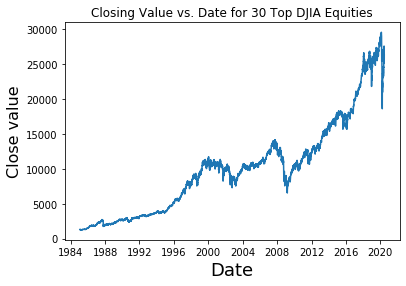
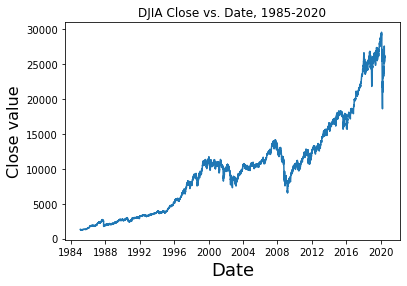
Reconfigure code, begin setup for target values as sequences

diff --git a/RNN.py b/RNN.py
@@ -4,28 +4,29 @@ import pandas as pd
 import matplotlib.pyplot as plt
 import matplotlib.dates as mdates
 from tensorflow.keras.models import Sequential
-from tensorflow.keras.layers import Embedding, LSTM, Dense, Dropout
-from time import strptime
+from tensorflow.keras.layers import LSTM, Dense, Dropout
 from math import ceil
 from tensorflow.keras.callbacks import EarlyStopping, ModelCheckpoint
 from sklearn.preprocessing import MinMaxScaler 
-from datetime import datetime 
 
-# TODO: Model is currently overfitting. 
+# =============================================================================
+# Dataset V1.0: Scalar Closing Values as Labels 
+# =============================================================================
 
 # Load data 
 file = r'DJIA_all_time' + '.csv'
 
 dirname = os.path.dirname(__file__)
 filename = os.path.join((dirname), 'data/' +file)
-df = pd.read_csv(filename)
+df = pd.read_csv(filename) # 2D (examples, 7 features)
 
-# Visualize the total dataset
-close_data = df['Close']
-dates = df['Date']
+#Extract close data and dates
+close_data = df['Close'] # 1D (examples, )
+dates = df['Date'] # 1D (examples, )
 adj_dates = mdates.datestr2num(dates)
-plt.plot_date(adj_dates, close_data, '-')
-    
+
+# Visualize whole dataset
+plt.plot_date(adj_dates, close_data, '-')    
 plt.title('DJIA Close vs. Date, 1985-2020')
 plt.xlabel('Date', fontsize = 18)
 plt.ylabel('Close value', fontsize = 16)
@@ -38,31 +39,57 @@ if close_data.isna().sum():
     
 # Define the training set
 percent_training: float = 0.80
-num_training_samples = ceil(percent_training*len(df)) # 7135
+num_training_samples = ceil(percent_training*len(df)) # int
 training_set = df.iloc[:num_training_samples, 5:6].values # (7135, 1)
 
 # Scale training data
 scaler = MinMaxScaler(feature_range = (0, 1))
-training_set_scaled = scaler.fit_transform(training_set) # (7135, 1)
+training_set_scaled = scaler.fit_transform(training_set) #2D (num_training_samples, 1)
 
 # Some parameters
 sequence_length: int = 90
 
-# Build x training set (contains example sequences of length sequence_length) 
+labels_are_sequences = False
+
+# =============================================================================
+# Dataset V1.0: Scalar Closing Values as Labels 
+# =============================================================================
+
+# Build 3D training set (examples, sequence_length, 1) 
 x_train = np.array([training_set_scaled[i - sequence_length:i, 0] for i in range(sequence_length, len(training_set_scaled))]) 
-x_train = np.reshape(x_train, (x_train.shape[0], x_train.shape[1], 1)) 
+x_train = np.reshape(x_train, (x_train.shape[0], x_train.shape[1], 1))
 
-# Build y training set (contains targets)
-y_train = np.array([training_set_scaled[i, 0] for i in range(sequence_length, len(training_set_scaled))])
-
-# Define test set 
-num_testing_samples: int = len(df) - x_train.shape[0] 
-testing_set = df.iloc[-num_testing_samples:, 5:6].values # 2D ndarray
-testing_set_scaled = scaler.fit_transform(testing_set) # 2D ndarray
+# Build test sets
+num_testing_samples: int = len(df) - x_train.shape[0] # Scalar 
+testing_set = df.iloc[-num_testing_samples:, 5:6].values # 2D (examples, 1)
+testing_set_scaled = scaler.fit_transform(testing_set) # 2D ndarray (examples, 1)
 
 x_test = np.array([testing_set_scaled[i - sequence_length:i, 0] for i in range(sequence_length, len(testing_set_scaled))])
-x_test = np.reshape(x_test, (x_test.shape[0], x_test.shape[1], 1)) # (7105, 30, 1)
-y_test = np.array([testing_set_scaled[i, 0] for i in range(sequence_length, len(testing_set_scaled))])
+x_test = np.reshape(x_test, (x_test.shape[0], x_test.shape[1], 1)) #3D (examples-sequence_length, sequence_length, 1)
+
+if not labels_are_sequences:
+    # Build 1D training labels (examples, )
+    y_train = np.array([training_set_scaled[i, 0] for i in range(sequence_length, len(training_set_scaled))])
+    y_test = np.array([testing_set_scaled[i, 0] for i in range(sequence_length, len(testing_set_scaled))]) # (examples-sequence_length, 1)
+    y_test = np.reshape(y_test, (y_test.shape[0])) #1D (examples, )
+
+# =============================================================================
+# Dataset V2.0: Vectors of Closing Values as Labels 
+# =============================================================================
+
+if labels_are_sequences:
+    y_train, y_test = [], []
+    
+    for i in range(sequence_length, len(training_set_scaled)):
+        y_train.append(training_set_scaled[i + sequence_length: sequence_length*2 + i, 0])
+        y_test.append(testing_set_scaled[i + sequence_length: sequence_length*2 + i, 0])
+    
+    y_train = np.array(list(y_item for y_item in y_train))
+    y_test = np.array(list(y_item for y_item in y_test))
+    # y_train= [training_set_scaled[i + sequence_length: sequence_length*2 + i, 0] for i in range(sequence_length, len(training_set_scaled))]
+    # y_test = [testing_set_scaled[i + sequence_length: sequence_length*2 + i, 0] for i in range(sequence_length, len(testing_set_scaled))] # (examples-sequence_length, 1)
+    # y_test = np.reshape(y_test, (y_test.shape[0])) #1D (examples, )
+
 
 # =============================================================================
 # Define and build model 

diff --git a/run_me.py b/run_me.py
@@ -1,0 +1,14 @@
+#!/usr/bin/env python3
+# -*- coding: utf-8 -*-
+# Created on Tue May  5 13:24:27 2020
+# @author: miranda (upquark00)
+
+import numpy as np
+from tensorflow.keras.models import load_model
+
+# Set parameters 
+model = load_model('model.h5')
+
+prediction = model.predict()
+
+

diff --git a/get_data.py b/get_data.py
@@ -1,0 +1,8 @@
+# -*- coding: utf-8 -*-
+"""
+Created on Mon Jun 22 19:27:29 2020
+
+@author: Mia
+"""
+
+
